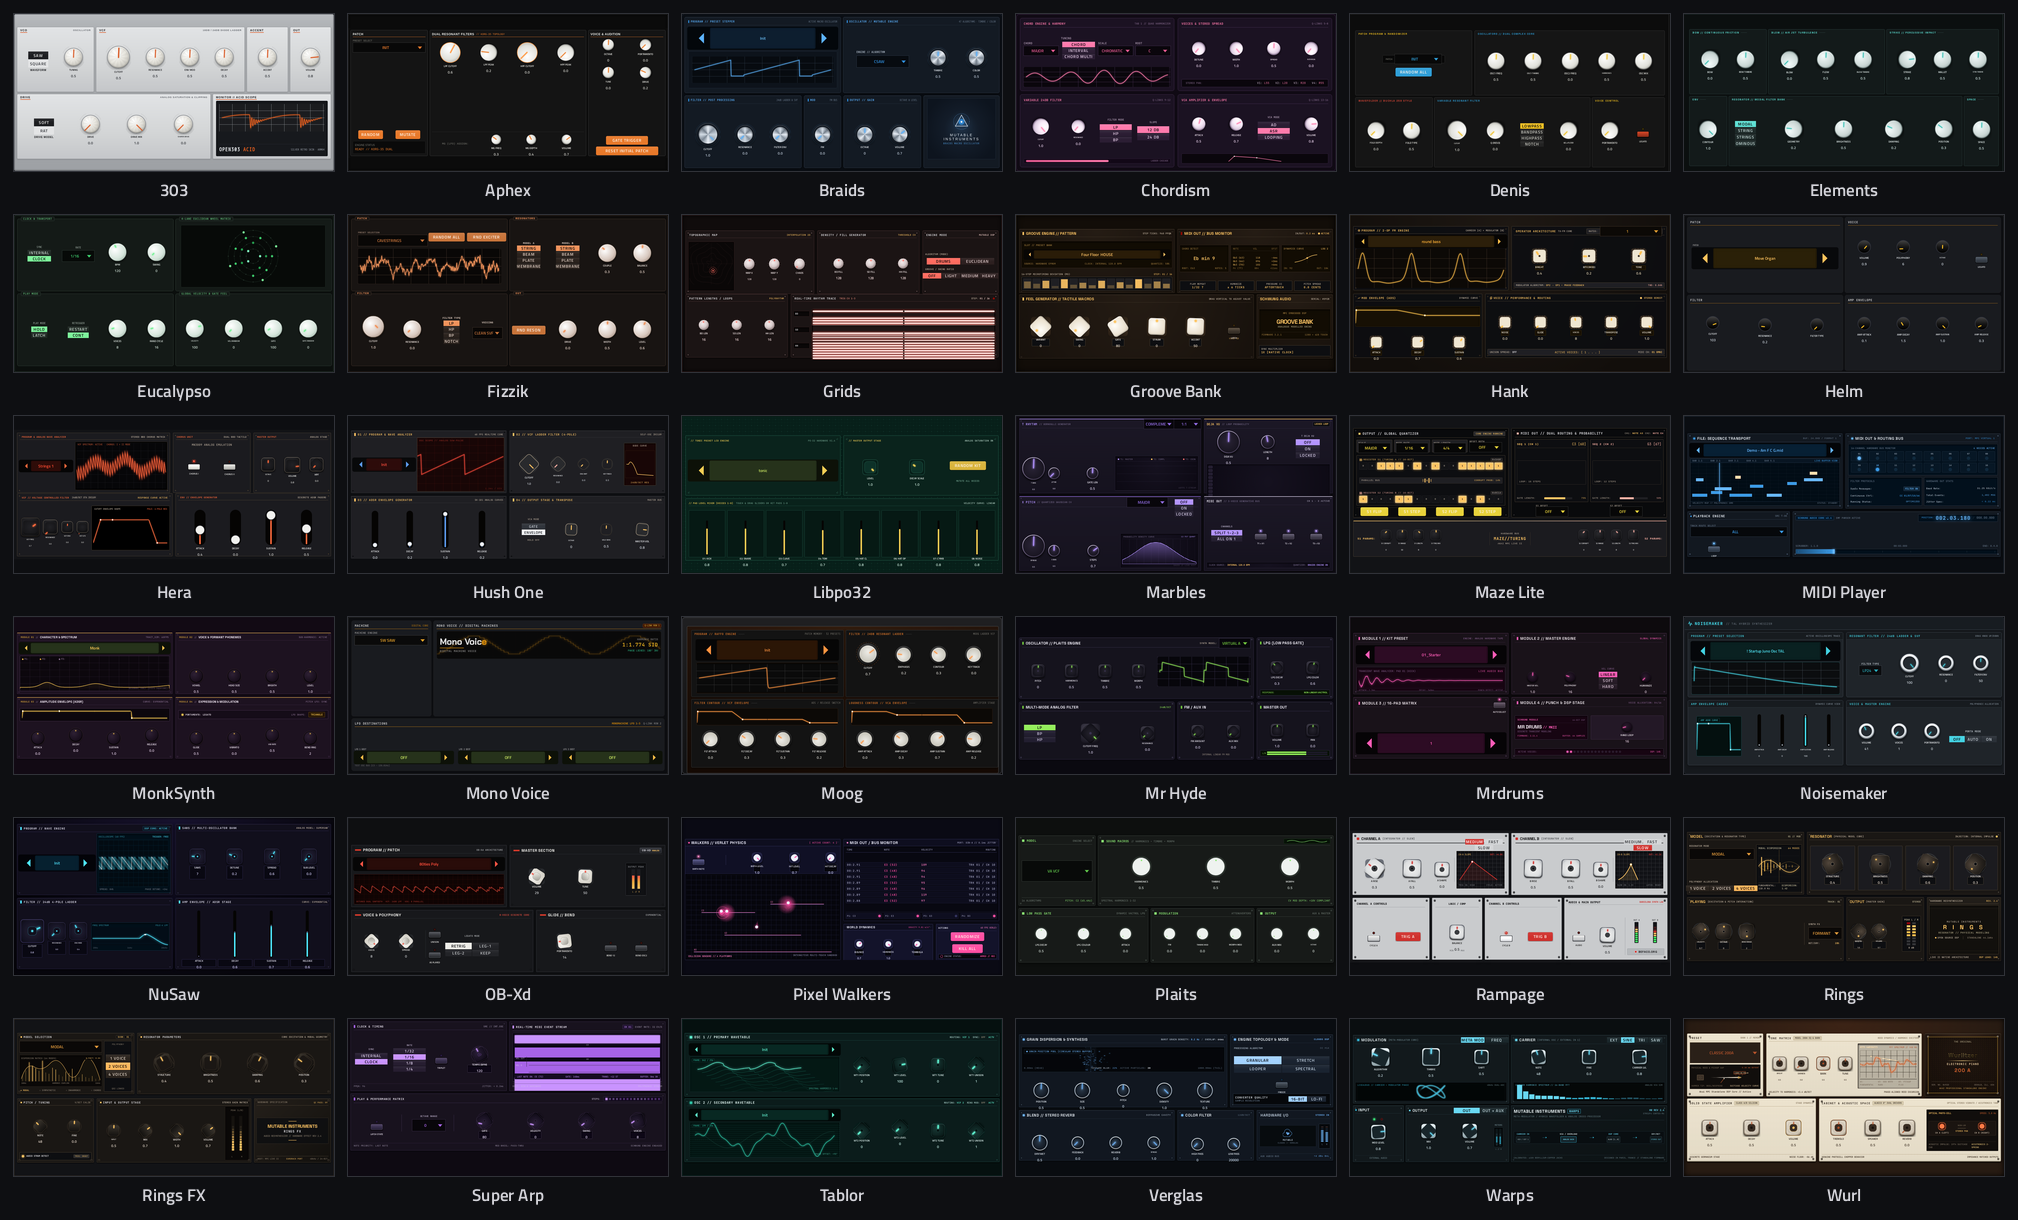
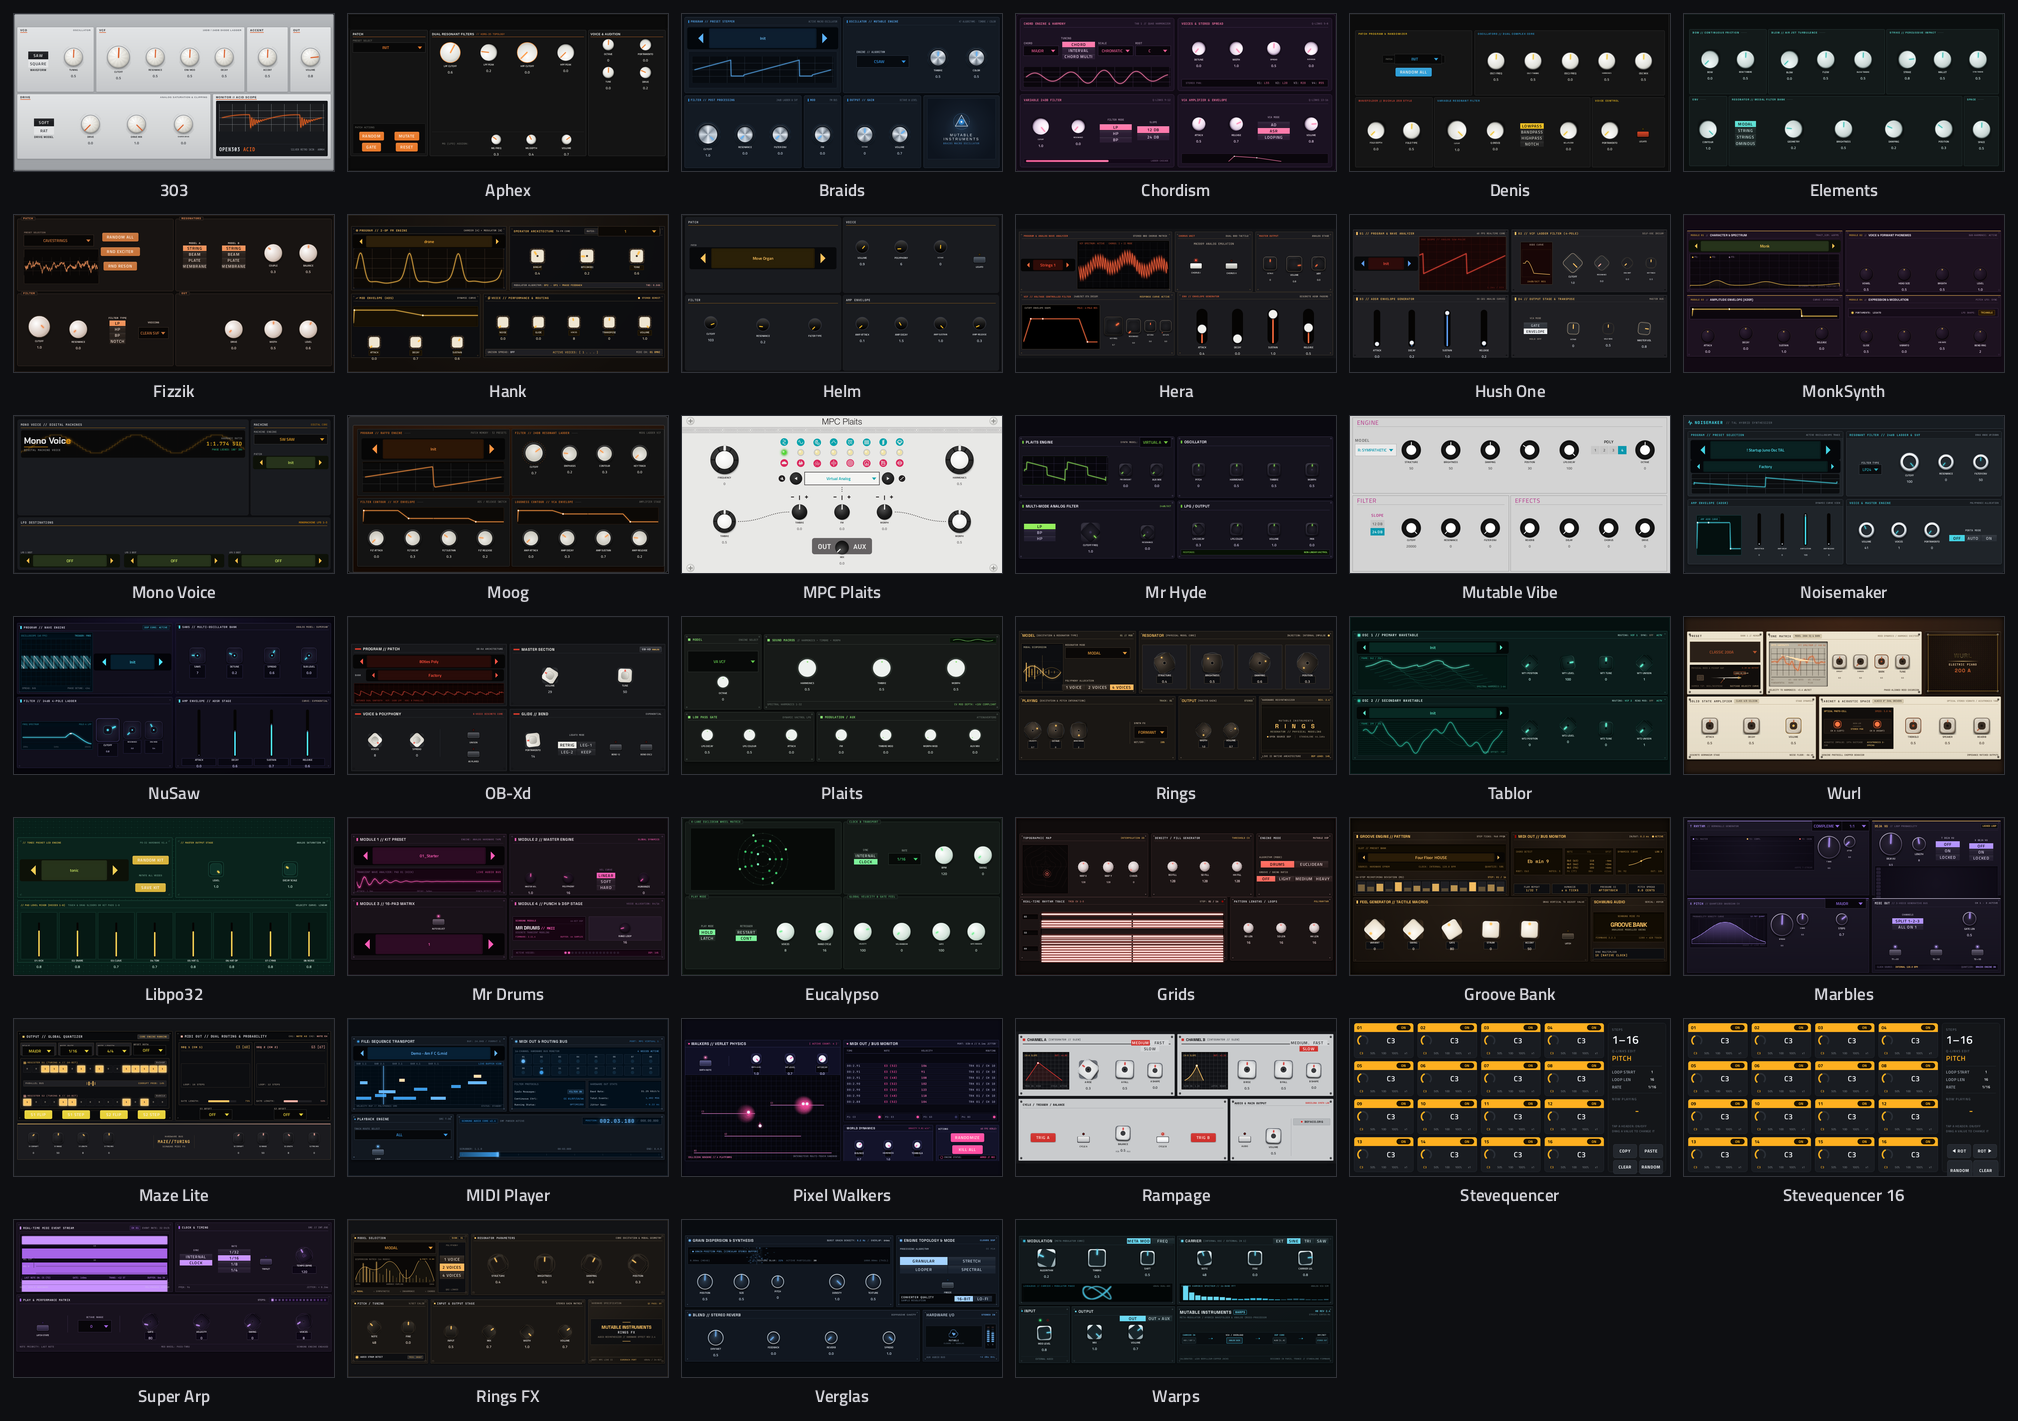
Docs: 40 plugins, what's verified on the Live II, the gallery with the new four
- README status: 40 build and pass, all installed on the Live II (2026-10-05); design QA 27 of 40 with what's left;
  Stevequencer's MOD lanes and the CC 20-35 map working on the device; Stevequencer 16 installed, first test next.
- INSTALL: 40 plugins, about 170 MB with their libraries. CLAUDE.md: 40 plugins.
- Mutable Vibe / MPC Plaits DESIGN-QA: installed and working, the page-by-page check still to do.
- docs/images/gallery.png regenerated (dev-tools/package/collage.py) with Mutable Vibe, MPC Plaits and Stevequencer 16.

diff --git a/README.md b/README.md
@@ -92,18 +92,18 @@ The first install of a plugin restarts MPC once (it asks first; `MPC.settings` i
 
 ## Status (2026-10-05)
 
-- All 36 build and pass the offline test: an x86 build under AddressSanitizer/UBSan that checks every parameter, presets, saving and restoring, Q-Link behaviour, notes to audio, and a stress test that hammers the plugin from two threads as MPC does.
-- All 36 run on an MPC Live II (MPC OS 3.9.1) with their Stitch screens (installed 2026-10-03).
-- Design QA on the device: **27 of 36 passed** (2026-10-04): all 22 synths, both drum machines and the three audio effects, every page checked on the Live II (names, values, touch controls, Q-Links, pop-ups, displays). Every screen has one Q-Link column per panel, with Moog as the model, and each plugin's `DESIGN-QA.md` says what changed. The 9 sequencers and generators are next: their screens have had the same pass offline, not yet on the device.
+- All 40 build and pass the offline test (all rebuilt 2026-10-05): an x86 build under AddressSanitizer/UBSan that checks every parameter, presets, saving and restoring, Q-Link behaviour, notes to audio, and a stress test that hammers the plugin from two threads as MPC does.
+- All 40 are installed on an MPC Live II (MPC OS 3.9.1); these builds since 2026-10-05 (the first set 2026-10-03).
+- Design QA on the device: **27 of 40 passed** (2026-10-04): the first 22 synths, both drum machines and the three audio effects, every page checked on the Live II (names, values, touch controls, Q-Links, pop-ups, displays). Every screen has one Q-Link column per panel, with Moog as the model, and each plugin's `DESIGN-QA.md` says what changed. Still to do: the 11 sequencers and generators and the two newest synths (Mutable Vibe, MPC Plaits); their screens have had the same pass offline.
 - Presets: every instrument and audio effect now has presets in MPC's own **PRESET menu** in the plugin header (also on the arrangement screen); checked on the Live II. Where upstream had none, the port brings its own, levels evened out (303, Elements, Rings, Plaits, Mr Hyde, Rings FX, Verglas, Warps; 2026-10-03/04); Tablor's and Mono Voice's factory sets are reachable now too. OB-Xd and Noisemaker get a BANK selector for banks you add, Hush One reads TAL-BassLine-101 presets you add, and the menu follows what's loaded ([docs/presets-and-libraries.md](docs/presets-and-libraries.md)).
 - Every screen is checked offline before it ships: each control's binding, the Q-Link layout, the touch areas (`dev-tools/stitch/check_skin.py`) and the Q-Link column outlines MPC highlights (`dev-tools/stitch/qlink_overlay.py`).
 - Sequencers on a stock MPC: on the Live II, MPC finds a sequencer's own MIDI port and connects to it by itself, no restart (2026-10-04); a second track plays from it (Monitor In on that track, Remote off for the port; confirmed 2026-10-04, as on a Force). [docs/sequencers.md](docs/sequencers.md) walks through the routing.
 - Plugin browser: every name starts with its kind, **[SYN]**, **[DRUM]**, **[SEQ]** or **[FX]** (2026-10-04). MPC's plugin menu sorted by type puts every VST in one VST folder (it ignores the category a plugin reports, Akai's own folder names included: tested on the Live II), so the tags group them there; sorted by manufacturer it makes a folder per maker. All plugins keep their real makers.
 - Audio effects: Verglas, Warps and Rings FX are in a track's insert effect slots, under VST, and work there (Live II, 2026-10-04; their screens passed the design QA in the slot).
-- New: **[Stevequencer](originals/stevequencer/)**, a 64-step sequencer edited from the Q-Links, written for this repo (2026-10-04): built, offline test passed, installed and working on the Live II. Its browser prototype (`design/prototype.html`) plays in Chrome. New since (offline, not yet on the device): two MOD lanes, a CC value per step that moves the instrument's controls.
-- MIDI CC 20-35 move every plugin's first-page Q-Links (column 1 = CC 20-23, top to bottom, and so on), with no MIDI learn: a sequencer's per-step CCs or a controller drive the instrument through the track's MIDI input (2026-10-04, offline test in every plugin; to check on a device that MPC passes the CCs through).
+- New: **[Stevequencer](originals/stevequencer/)**, a 64-step sequencer edited from the Q-Links, written for this repo (2026-10-04): built, offline test passed, installed and working on the Live II. Its browser prototype (`design/prototype.html`) plays in Chrome. Its two MOD lanes (a CC value per step that moves the instrument's controls) work on the Live II (2026-10-05).
+- MIDI CC 20-35 move every plugin's first-page Q-Links (column 1 = CC 20-23, top to bottom, and so on), with no MIDI learn: a sequencer's per-step CCs or a controller drive the instrument through the track's MIDI input (2026-10-04; working on the Live II 2026-10-05). For any parameter on any page, NRPN: see Stevequencer 16 below.
 - New: **[Mutable Vibe](mpc-ports/mutablevibe/)** (nachtaktiv303) and **[MPC Plaits](mpc-ports/mpcplaits/)** (poloq), two instruments their authors wrote for MPC OS on sd88me's framework, built here from their source with this repo's copy of it (2026-10-05): offline test passed, Q-Links one column per panel on every page (their screens are otherwise the authors'). Installed and working on the Live II (2026-10-05). Presets made for both, levels evened out offline (24 and 31; Mutable Vibe gained a VOLUME control for it).
-- New: **[Stevequencer 16](originals/stevequencer16/)** (2026-10-05, offline): 16 steps and eight modulation lanes that can move any parameter of the instrument, on any page (NRPN, which every plugin here now takes as its parameter number: [docs/parameter-numbers.md](docs/parameter-numbers.md)), with slides across steps, LFOs, per-lane rate and length, and lanes that follow each other (modulation groups). Stevequencer's MOD lanes are confirmed working on the Live II (2026-10-05): MPC passes a track's MIDI CCs through to the instrument.
+- New: **[Stevequencer 16](originals/stevequencer16/)** (2026-10-05; offline tests passed, installed on the Live II, first device test next): 16 steps and eight modulation lanes that can move any parameter of the instrument, on any page (NRPN, which every plugin here now takes as its parameter number: [docs/parameter-numbers.md](docs/parameter-numbers.md)), with slides across steps, LFOs, per-lane rate and length, and lanes that follow each other (modulation groups). Stevequencer's MOD lanes are confirmed working on the Live II (2026-10-05): MPC passes a track's MIDI CCs through to the instrument.
 - Developed on a Live II. Other Gen1 devices run the same MPC software and should behave the same; Gen2 devices (e.g. Live III) are reported to be more locked down. Reports welcome.
 
 What's next is in [ROADMAP.md](ROADMAP.md). Found a problem? Open an issue with the plugin, your MPC model and firmware, and what you did.

diff --git a/ROADMAP.md b/ROADMAP.md
@@ -50,7 +50,7 @@ parameter index, so existing projects keep working.
   as its parameter n, any page: `docs/parameter-numbers.md`); per lane HOLD, RETURN, SLIDE (across empty steps), LFO
   (six shapes, a cycle of 1-64 steps) or FOLLOW (modulation groups: lanes that follow a leader, each with its own
   target and range), and its own RATE and LENGTH. A separate plugin, so projects using Stevequencer keep working. All
-  40 plugins rebuilt for NRPN. On the device: that MPC passes NRPN (CC 99/98/6) through, eight sub-pages on MOD and
+  40 plugins rebuilt for NRPN; all installed on the Live II (2026-10-05). On the device: that MPC passes NRPN (CC 99/98/6) through, eight sub-pages on MOD and
   LANES, the load with several sliding lanes; then Design QA.
   Rampage sends a CC almost every block on a fast LFO (~290 a second per output): the wrapper only tells MPC ~40 times a
   second, but a rate limit in Rampage itself would be kinder.

diff --git a/INSTALL.md b/INSTALL.md
@@ -14,7 +14,7 @@ This guide takes you from a stock MPC to playing these plugins. The short versio
 - **Root SSH access to it** (step 1). Stock MPC OS has none.
 - **A computer** on the same network: macOS or Linux with `bash`, `ssh`, `tar` and `git` (all standard). On Windows,
   use WSL.
-- **Space**: all 36 plugins take about 130 MB on the MPC's internal drive (`/sdcard`). The biggest are the ones
+- **Space**: all 40 plugins take about 170 MB on the MPC's internal drive (`/sdcard`), their libraries included. The biggest are the ones
   that ship presets, wavetables or samples (Tablor, Aphex, Braids, Moog).
 - **Save your project.** Adding plugins MPC hasn't seen before restarts MPC once.
 

diff --git a/originals/stevequencer16/README.md b/originals/stevequencer16/README.md
@@ -24,7 +24,7 @@ projects that use it.
   Half-Time Mod, Group of Three, Accent Return, Bass Line, Arp Climb, Blues Shuffle, Ratchet Stabs, Pendulum Arp, Drunk
   Garden. Their lanes go to CC 20 and CC 21 (the first two Q-Links of this repo's instruments) until you nominate other
   targets.
-- Built and tested offline (2026-10-05); not yet on the device.
+- Built and tested offline, and installed on the Live II (2026-10-05); the checks under "To check on the device" are next.
 
 ## Playing it
 

diff --git a/CLAUDE.md b/CLAUDE.md
@@ -1,6 +1,6 @@
 # vst_instruments: agent guide
 
-36 native VST2 plugins for Akai MPC OS standalone devices (Gen1, 32-bit ARM: Live, Live II, One, X, Force), loaded
+40 native VST2 plugins for Akai MPC OS standalone devices (Gen1, 32-bit ARM: Live, Live II, One, X, Force), loaded
 by MPC's built-in JUCE plugin host, each with a native touchscreen skin converted from a Google Stitch design. The
 owner develops on an MPC Live II (MPC OS 3.9.1, root SSH via a rebuilt Akai update).
 

diff --git a/mpc-ports/mutablevibe/DESIGN-QA.md b/mpc-ports/mutablevibe/DESIGN-QA.md
@@ -1,6 +1,7 @@
 # Design QA: Mutable Vibe
 
-Status: **checked offline** (2026-10-05); not yet on the device (☐ in the README).
+Status: **checked offline** (2026-10-05); installed and working on the Live II (2026-10-05, the owner: "seems to be
+working nicely"). The page-by-page check on the device (☐ in the README) is still to do.
 
 ## Owner's notes
 Added on request, "check the interfaces so that the qlinks work for all pages". Checked against the batch rules (one

diff --git a/mpc-ports/mpcplaits/DESIGN-QA.md b/mpc-ports/mpcplaits/DESIGN-QA.md
@@ -1,6 +1,7 @@
 # Design QA: MPC Plaits
 
-Status: **checked offline** (2026-10-05); not yet on the device (☐ in the README).
+Status: **checked offline** (2026-10-05); installed and working on the Live II (2026-10-05, the owner: "seems to be
+working nicely"). The page-by-page check on the device (☐ in the README) is still to do.
 
 ## Owner's notes
 Added on request, "check the interfaces so that the qlinks work for all pages". Checked against the batch rules (one
